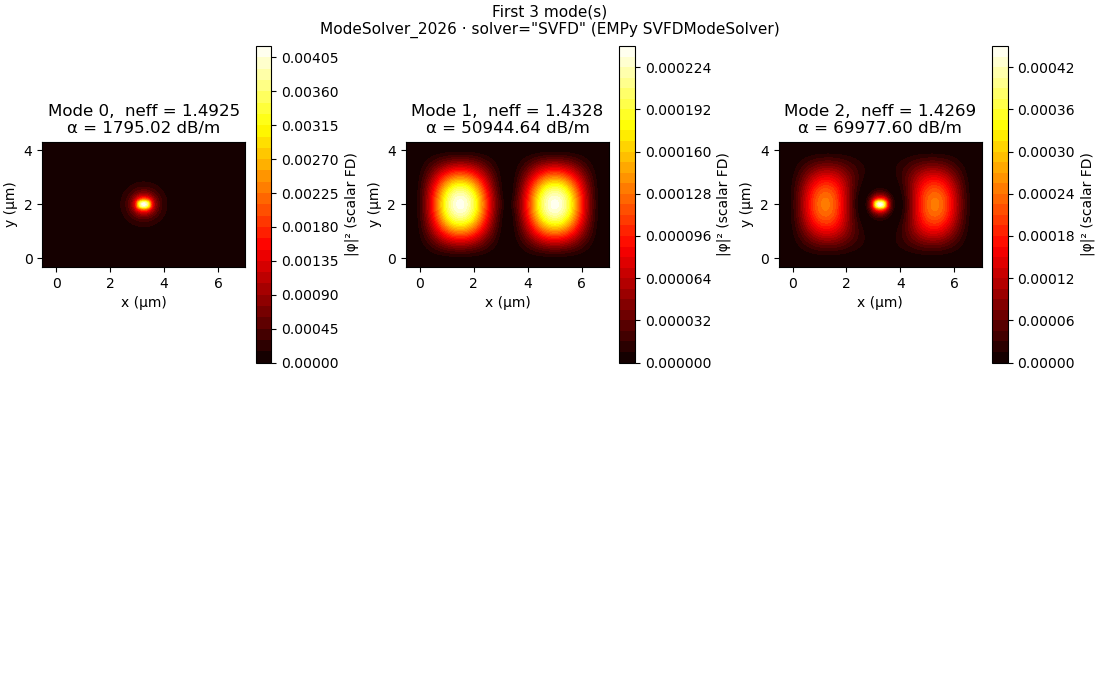
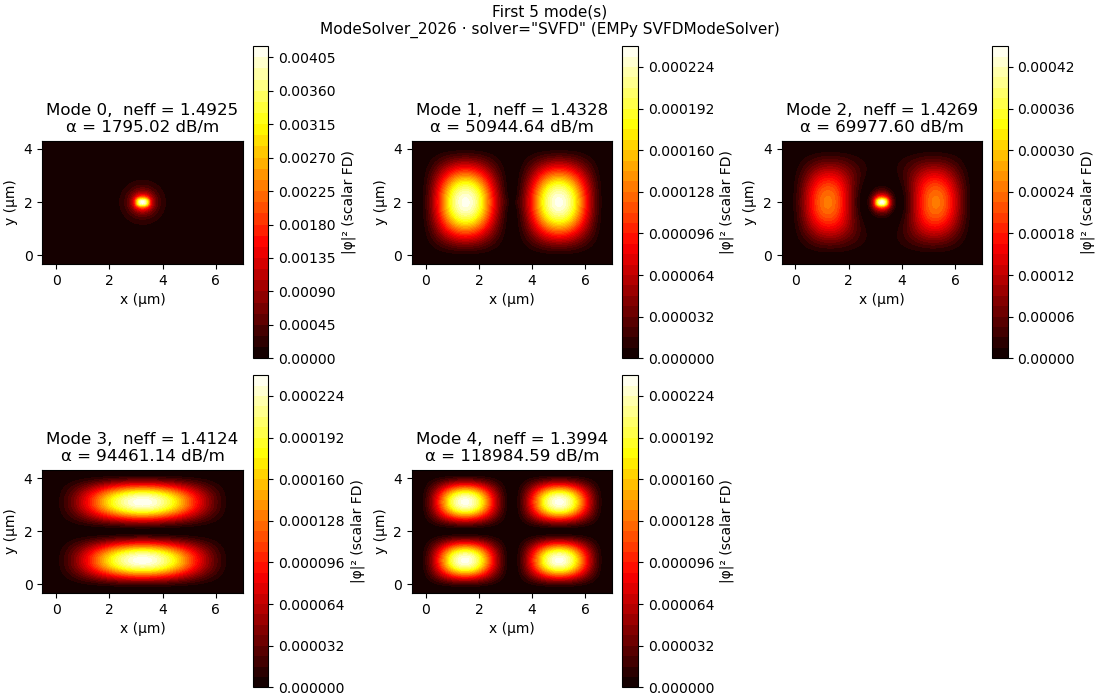
removed EME and EMEpy modesolver attempts.

diff --git a/ModeSolver_2026/ModeSolver.py b/ModeSolver_2026/ModeSolver.py
@@ -10,7 +10,6 @@ import numpy as np
 import EMpy.utils
 from EMpy.modesolvers.FD import SVFDModeSolver, VFDModeSolver
 
-from .eme_emepy import solve_cross_section_emepy_msempy
 from .pml import (
     boundary_for_empy,
     extend_vertex_axes,
@@ -225,13 +224,12 @@ class _StripChain:
         return _StripChain(self._strips + [other])
 
 
-def _normalize_calc_solver(solver: str) -> Literal["svfd", "vfd", "eme"]:
+def _normalize_calc_solver(solver: str) -> Literal["svfd", "vfd"]:
     """
     Map ``calc(solver=...)`` to an internal backend key.
 
     SVFD (default): ``"SVFD"``, ``"EMpy-SVFD"``, ``"semi-vectorial"``, ``"fd"``.
     VFD: ``"VFD"``, ``"EMpy-VFD"``, ``"vectorial"``.
-    EMEpy: ``"eme"``, ``"EMEpy"``, ``"eigenmode expansion"`` (spacing ignored).
     """
     s = (
         str(solver).strip().lower().replace(" ", "").replace("-", "").replace("_", "")
@@ -240,12 +238,10 @@ def _normalize_calc_solver(solver: str) -> Literal["svfd", "vfd", "eme"]:
         return "svfd"
     if s in ("vfd", "empyvfd", "vectorial", "fullvectorial"):
         return "vfd"
-    if s in ("eme", "emepy", "eigenmodeexpansion"):
-        return "eme"
     raise ValueError(
         f"Unknown calc(solver={solver!r}). "
-        "Use 'SVFD' (default), 'EMpy-SVFD', 'semi-vectorial', 'fd'; "
-        "'VFD', 'EMpy-VFD', 'vectorial'; or 'eme', 'EMEpy', 'eigenmode expansion'."
+        "Use 'SVFD' (default), 'EMpy-SVFD', 'semi-vectorial', 'fd'; or "
+        "'VFD', 'EMpy-VFD', 'vectorial'."
     )
 
 
@@ -304,7 +300,7 @@ class Waveguide:
             self._strips = [layout]
         self._solver: SVFDModeSolver | VFDModeSolver | None = None
         self._vectorial: bool = False
-        self._solver_backend: Literal["svfd", "vfd", "eme"] = "svfd"
+        self._solver_backend: Literal["svfd", "vfd"] = "svfd"
         self._wl_um: float | None = None
         self._x: np.ndarray | None = None
         self._y: np.ndarray | None = None
@@ -351,7 +347,6 @@ class Waveguide:
             backend_label = {
                 "svfd": "SVFD (semi-vectorial FD)",
                 "vfd":  "VFD  (full-vectorial FD)",
-                "eme":  "EME  (eigenmode expansion)",
             }.get(self._solver_backend, self._solver_backend.upper())
             lines.append(
                 f"  Wavelength:  {self._wl_um:.4f} µm   "
@@ -547,9 +542,6 @@ class Waveguide:
           ``"semi-vectorial"``, ``"fd"``.
         * **VFD**: full-vectorial :class:`VFDModeSolver` (all field components).
           Synonyms: ``"EMpy-VFD"``, ``"vectorial"``.
-        * **eme**: EMEpy's :class:`emepy.fd.MSEMpy` transverse mode solver (vector
-          FD as used in EMEpy workflows; requires the ``emepy`` package). Synonyms:
-          ``"EMEpy"``, ``"eigenmode expansion"``.
 
         Parameters
         ----------
@@ -578,16 +570,16 @@ class Waveguide:
             ``"A"`` → ``"AAAA"``.
             
             ``'P'`` (PML) is only implemented via the complex-ε
-            preprocessor (same path for SVFD, VFD, and ``solver='eme'``).
+            preprocessor (same path for SVFD and VFD).
         fd_method
             For ``solver`` SVFD only: ``'scalar'``, ``'Ex'``, or ``'Ey'``.
         index_guess
             For VFD only: optional sigma shift for the sparse eigensolver (default
             uses max index minus a small offset).
         tol
-            Eigenvalue tolerance for SVFD, VFD, and EMEpy ``MSEMpy`` (``accuracy``).
+            Eigenvalue tolerance for SVFD and VFD.
         solver
-            ``"SVFD"``, ``"VFD"``, or ``"eme"`` (plus synonyms above).
+            ``"SVFD"`` or ``"VFD"`` (plus synonyms above).
         pml_cells
             When any side uses ``'P'``: integer (same count on every ``P`` side) or
             ``(N, S, E, W)`` integer tuple for PML thickness in **FD cells** on each
@@ -633,21 +625,7 @@ class Waveguide:
 
         kind = _normalize_calc_solver(solver)
         print("Waveguide.calc(): Calculating Modes...")
-        if kind == "eme":
-            result = solve_cross_section_emepy_msempy(
-                self,
-                wavelength_um=wavelength_um,
-                neigs=neigs,
-                x=x,
-                y=y,
-                boundary=b_empy,
-                tol=tol,
-                epsfunc=epsfunc,
-            )
-            self._solver = result.solver
-            self._vectorial = True
-            self._solver_backend = "eme"
-        elif kind == "vfd":
+        if kind == "vfd":
             fd_solver = VFDModeSolver(
                 wavelength_um, x, y, epsfunc, b_empy
             ).solve(neigs=neigs, tol=tol, guess=guess)
@@ -672,7 +650,7 @@ class Waveguide:
         """
         All solved modes as a list of :class:`Mode` objects.
 
-        Works for every backend (SVFD, VFD, and EME). Each element supports
+        Works for every backend (SVFD and VFD). Each element supports
         ``.neff``, ``.plot()``, ``.plot_intensity()``, ``.get_field()``,
         ``.get_alpha()``, and ``.get_alpha_dB()``.
 
@@ -727,7 +705,7 @@ class Waveguide:
         Mode or tuple of Mode
             Single :class:`Mode` for int index, or tuple of :class:`Mode` for
             a sequence. Returns a :class:`_ScalarModeView` for SVFD and a
-            :class:`_VectorModeView` for VFD/eme (both subclass :class:`Mode`).
+            :class:`_VectorModeView` for VFD (both subclass :class:`Mode`).
 
         Raises
         ------
@@ -956,12 +934,7 @@ class Waveguide:
 
         if suptitle is None:
             backend = self._solver_backend
-            if backend == "eme":
-                sub = (
-                    f"First {n_plot} mode(s)\n"
-                    'ModeSolver_2026 · solver="eme" (EMEpy MSEMpy)'
-                )
-            elif backend == "vfd":
+            if backend == "vfd":
                 sub = (
                     f"First {n_plot} mode(s)\n"
                     'ModeSolver_2026 · solver="VFD" (EMPy VFDModeSolver)'
@@ -1172,12 +1145,12 @@ class _VectorModeView(Mode):
 
     def __init__(self, fdmode, wg: Waveguide) -> None:
         """
-        Initialize a vector mode view from VFD/EMEpy solver results.
+        Initialize a vector mode view from VFD solver results.
 
         Parameters
         ----------
         fdmode
-            EMpy or EMEpy mode object with neff, get_field, intensity methods.
+            EMpy mode object with neff, get_field, intensity methods.
         wg : Waveguide
             Parent waveguide instance.
         """

diff --git a/ModeSolver_2026/__init__.py b/ModeSolver_2026/__init__.py
@@ -1,23 +1,11 @@
 from __future__ import annotations
 
-import numpy as np
-
-# NumPy 1.x compatibility: ElectromagneticPython 2.x uses ``numpy.trapezoid`` (NumPy 2+).
-# The ``[eme]`` extra pins NumPy 1.24.x for unmodified ``EMpy_gpu`` (``numpy.testing.Tester``).
-if not hasattr(np, "trapezoid"):
-    np.trapezoid = np.trapz  # type: ignore[attr-defined, assignment]
-
 """
 ModeSolver_2026 — pyFIMM-like geometry API with EMpy mode solving.
 
 Backend: `ElectromagneticPython` (EMpy) finite-difference mode solvers
 (:class:`SVFDModeSolver` by default, optional :class:`VFDModeSolver`), see
 https://github.com/lbolla/EMpy .
-
-Optional EMEpy cross-section modes: pass ``solver="eme"`` (or ``"EMEpy"``) to
-:class:`~ModeSolver_2026.ModeSolver.Waveguide.calc` to use EMEpy's ``MSEMpy``
-transverse solver. That path requires the ``emepy`` package and its dependencies
-(see ``pip install mode-solver-2026[eme]`` or the `emepy` project README).
 """
 
 from .ModeSolver import Material, Mode, Slice, Waveguide

diff --git a/examples/Example1 - SiN rect wg modes.py b/examples/Example1 - SiN rect wg modes.py
@@ -50,12 +50,10 @@ print(f"Wrote {out_n}")
 
 # Default ``solver='SVFD'`` (EMpy semi-vectorial FD) — fast for this demo.
 # Use ``solver='VFD'`` or ``solver='vectorial'`` for full EMpy VFDModeSolver (slower).
-# Use ``solver='eme'`` for EMEpy's MSEMpy (requires ``pip install emepy``).
 WG.calc(
     wavelength_um=wavelength_um,
-    neigs=3,
+    neigs=5,
     boundary="p",    # N,S,E,W walls, options: P (PML)/0/S (summetric)/A (Anti-Symm)
-    # solver="eme",  # optional: EMEpy MSEMpy (requires ``pip install emepy``)
     # tol=1e-6,
 )
 
